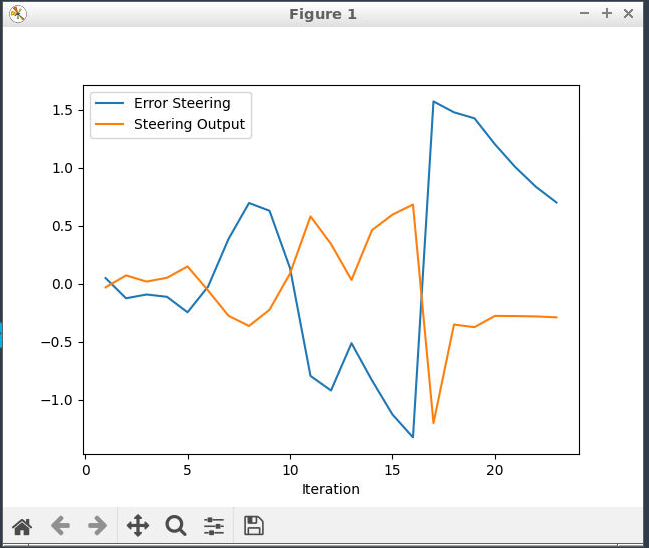
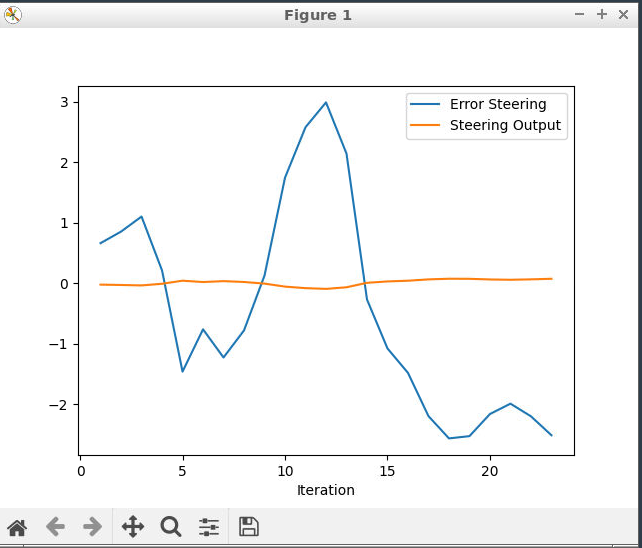
submit4

diff --git a/project/pid_controller/main.cpp b/project/pid_controller/main.cpp
@@ -227,10 +227,10 @@ int main ()
 
   /*  ステアリング角のPID制御オブジェクト生成。係数τ、上限下限の設定  */
   PID pid_steer = PID();
-  pid_steer.Init(0.3, 0.05, 0.40, 1.2, -1.2);                                           /* #003 */
+  pid_steer.Init(0.03, 0.0001, 0.001, 1.2, -1.2);                                           /* #003 */
   /*  スロットル速度のPID制御オブジェクト生成。係数τ、上限下限の設定  */
   PID pid_throttle = PID();
-  pid_throttle.Init(0.2, 0.01, 0.02, 1.0, -1.0);                                        /* #002 */
+  pid_throttle.Init(0.5, 0.01, 0.02, 1.0, -1.0);                                        /* #002 */
 
 
   h.onMessage([&pid_steer, &pid_throttle, &new_delta_time, &timer, &prev_timer, &i, &prev_timer](uWS::WebSocket<uWS::SERVER> ws, char *data, size_t length, uWS::OpCode opCode)
@@ -312,6 +312,7 @@ int main ()
           /**
           * TODO (step 3): compute the steer error (error_steer) from the position and the desired trajectory
           **/
+#if 1
           // 位置と目的の軌道からステアリングエラー（error_steer）を計算します     差 = 実際 - 目標
           double planned_distance = std::sqrt(                                                               /* #003 */
                                        std::pow(std::abs(x_position - x_points[x_points.size()-1]),2U)
@@ -321,10 +322,10 @@ int main ()
           /*  ステアリング角(yaw角)は車進行方向に対して、右が正、左が負  */
 //          double planned_yaw = -std::acos(-(x_position - x_points[x_points.size()-1]) / planned_distance);
 
-          double x_idx = x_points.size()-1;                                               /* #011 */
-          double y_idx = y_points.size()-1;                                               /* #011 */
-//          double x_idx = 0;                                               /* #012 */
-//          double y_idx = 0;                                               /* #012 */
+//          double x_idx = x_points.size()-1;                                               /* #011 */
+//          double y_idx = y_points.size()-1;                                               /* #011 */
+          double x_idx = 0;                                               /* #012 */
+          double y_idx = 0;                                               /* #012 */
 //          double x_idx = i;                                               /* #012 */
 //          double y_idx = i;                                               /* #012 */
           double x_dist = x_position - x_points[x_idx];
@@ -371,6 +372,10 @@ int main ()
             error_steer = -M_PI/2;
           }
 //debug          error_steer = 0.2;
+#endif
+          /*  from QA   */
+//          error_steer = 5 * (y_position - y_points[0]);
+          error_steer = 5 * (y_position - y_points[0]);
           
 #if (1)          
 	      /*  debug  */
@@ -466,9 +471,11 @@ int main ()
           // 位置と要求速度からスロットルエラー（error_throttle）を計算します
           // modify the following line for step 2
           /*  スロットル速度エラー値の算出  速度差 = 実際 - 目標  */
-          error_throttle = (velocity - v_points[v_points.size()-1]);                    /* #002 */
+//          error_throttle = (velocity - v_points[v_points.size()-1]);                    /* #002 */
 //          error_throttle = (velocity - v_points[0]);                    /* #002 */
 //          error_throttle = (velocity - v_points[i]);                    /* #002 */
+          /*  from QA   */
+          error_throttle = velocity - v_points.back();                    /* #013 */
 
           double throttle_output;
           double brake_output;
